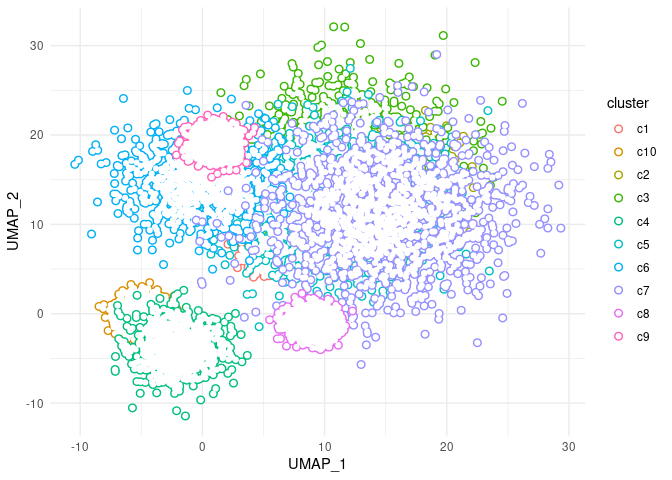
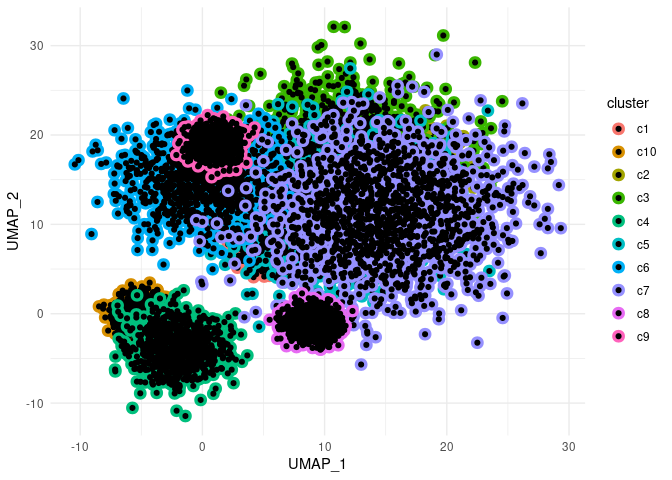
test warning

diff --git a/README.md b/README.md
@@ -74,7 +74,10 @@ ggplot(
   aes(UMAP_1, UMAP_2, trace_color = cluster)
 ) +
   theme_minimal() +
-  geom_point_trace()
+  geom_point_trace(
+    color      = "black",
+    trace_size = 2
+  )
 ```
 
 <img src="man/figures/README-unnamed-chunk-3-1.png" width="100%" />
